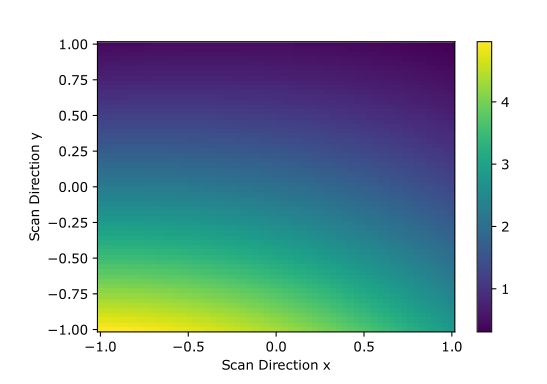
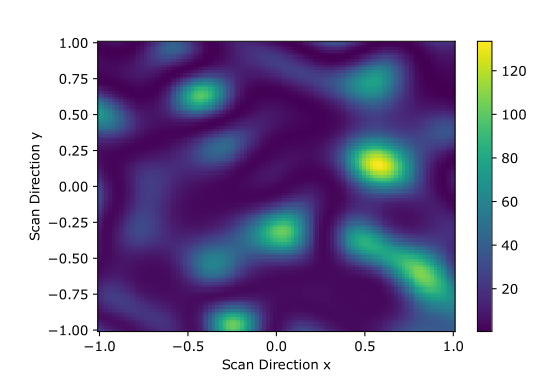
Merging dev (#4)
* namespace for tests imports

* new example plot

* minor fixes & adding Authors

diff --git a/tests/orqviz/scans_test.py b/tests/orqviz/scans_test.py
@@ -1,21 +1,21 @@
 import pytest
 import numpy as np
-from zquantum.visualization.scans import (
+from orqviz.scans import (
     perform_1D_scan,
     perform_1D_interpolation,
     perform_2D_scan,
     perform_2D_interpolation,
     get_2D_slice_around_point,
 )
-from zquantum.visualization.scans.plots import (
+from orqviz.scans.plots import (
     plot_1D_scan_result,
     plot_2D_scan_result,
     plot_2D_interpolation_result,
 )
-from zquantum.visualization.scans.data_structures import Scan1DResult, Scan2DResult
+from orqviz.scans.data_structures import Scan1DResult, Scan2DResult
 import matplotlib.pyplot as plt
-from zquantum.visualization.scans import perform_1D_scan
-from zquantum.visualization.utils import save_viz_object, load_viz_object
+from orqviz.scans import perform_1D_scan
+from orqviz.utils import save_viz_object, load_viz_object
 
 
 def SUM_OF_SINS(params):
@@ -23,8 +23,8 @@ def SUM_OF_SINS(params):
 
 
 def test_1D_scan():
-    origin = np.array([0, 0])
-    direction_x = np.array([1, 0])
+    origin = np.array([0.0, 0.0])
+    direction_x = np.array([1.0, 0.0])
     end_points_x = (-np.pi, np.pi)
     n_steps_x = 100
 
@@ -59,8 +59,8 @@ def test_1D_scan():
 
 
 def test_1D_interpolation():
-    point1 = np.array([0, 0])
-    point2 = np.array([0, 0])
+    point1 = np.array([1, 0])
+    point2 = np.array([0, 1])
     direction_x = point2 - point1
     end_points_x = (0, 1)
     n_steps_x = 23
@@ -78,7 +78,7 @@ def test_1D_interpolation():
     for scan_results in [scan_1d, loaded_scan1d]:
         assert isinstance(scan_results, Scan1DResult)
         assert len(scan_results.values) == n_steps_x
-        np.testing.assert_equal(np.dot(scan_results.direction, direction_x), 0)
+        np.testing.assert_equal(scan_results.direction, direction_x)
         assert scan_results.params_list.shape == (n_steps_x, 2)
 
         np.testing.assert_equal(
@@ -177,7 +177,7 @@ def test_get_2D_slice_around_point_in_5D_space():
 
 
 def test_interpolation_2D_in_2D_space():
-    point_1 = np.array([0, 0])
+    point_1 = np.array([1, 0])
     point_2 = np.array([0, 2])
     end_points_x = (-0.5, 1.5)
     end_points_y = (-0.5, 0.5)

diff --git a/tests/orqviz/utils_test.py b/tests/orqviz/utils_test.py
@@ -1,11 +1,11 @@
 import pytest
 import numpy as np
-from zquantum.visualization.scans import perform_2D_scan, perform_1D_scan
-from zquantum.visualization.hessians import get_Hessian
-from zquantum.visualization.utils import save_viz_object, load_viz_object, OrqVizObject
-from zquantum.visualization.scans.data_structures import Scan1DResult, Scan2DResult
-from zquantum.visualization.hessians.data_structures import HessianEigenobject
-from zquantum.visualization.elastic_band.data_structures import Chain
+from orqviz.scans import perform_2D_scan, perform_1D_scan
+from orqviz.hessians import get_Hessian
+from orqviz.utils import save_viz_object, load_viz_object, OrqVizObject
+from orqviz.scans.data_structures import Scan1DResult, Scan2DResult
+from orqviz.hessians.data_structures import HessianEigenobject
+from orqviz.elastic_band.data_structures import Chain
 
 
 def SUM_OF_SINS(params):

diff --git a/tests/orqviz/hessians_test.py b/tests/orqviz/hessians_test.py
@@ -1,14 +1,14 @@
 import pytest
 import numpy as np
 import matplotlib.pyplot as plt
-from zquantum.visualization.hessians import (
+from orqviz.hessians import (
     get_Hessian,
     get_Hessian_SPSA_approx,
     HessianEigenobject,
     perform_1D_hessian_eigenvector_scan,
     plot_1D_hessian_eigenvector_scan_result,
 )
-from zquantum.visualization.utils import save_viz_object, load_viz_object
+from orqviz.utils import save_viz_object, load_viz_object
 
 
 def COST_FUNCTION(params):

diff --git a/tests/orqviz/elastic_band_test.py b/tests/orqviz/elastic_band_test.py
@@ -1,13 +1,13 @@
 import pytest
 import numpy as np
 import matplotlib.pyplot as plt
-from zquantum.visualization.elastic_band import (
+from orqviz.elastic_band import (
     Chain,
     run_NEB,
     run_AutoNEB,
     plot_all_chains_losses,
 )
-from zquantum.visualization.utils import save_viz_object, load_viz_object
+from orqviz.utils import save_viz_object, load_viz_object
 
 
 def SUM_OF_SINS(params):

diff --git a/tests/orqviz/pca_test.py b/tests/orqviz/pca_test.py
@@ -1,7 +1,7 @@
 import pytest
 import numpy as np
-from zquantum.visualization.scans.data_structures import Scan2DResult
-from zquantum.visualization.pca import (
+from orqviz.scans.data_structures import Scan2DResult
+from orqviz.pca import (
     perform_2D_pca_scan,
     get_pca,
     PCAobject,

diff --git a/README.md b/README.md
@@ -6,6 +6,7 @@ A Python package for easily **visualizing the loss landscape** of Variational Qu
 ## Getting started
 
 In our repository you will find an [example Jupter notebook](https://github.com/zapatacomputing/orqviz/blob/main/examples/example_notebook.ipynb) providing a thorough demonstration of the tools available with the package. 
+
 In [this Github](https://github.com/zapatacomputing/visualization-tutorials) repository we have four Jupyter notebooks with tutorials for how to get started with any quantum circuit simulation framework you might use. You will find examples with `qiskit`, `cirq`, `pennylane` and Zapata's `Orquestra` library. The tutorials are not exhaustive, but they do provide a full story that you can follow along.
 
 We have recently published a paper on arXiv where we review the tools available with `orqviz`. TODO: Link to arXiv.
@@ -31,7 +32,7 @@ import numpy as np
 np.random.seed(42)
 
 def loss_function(pars):
-    return np.sum(np.cos(pars))**2
+    return np.sum(np.cos(pars))**2 + np.sum(np.sin(30*pars))**2
 
 n_params = 42
 params = np.random.uniform(-np.pi, np.pi, size=n_params)
@@ -40,11 +41,24 @@ dir2 = orqviz.geometric.get_random_orthonormal_vector(dir1)
 
 scan2D_result = orqviz.scans.perform_2D_scan(params, loss_function, 
                                 direction_x=dir1, direction_y=dir2,
-                                n_steps_x=60)
+                                n_steps_x=100)
 orqviz.scans.plot_2D_scan_result(scan2D_result)
 ```
-This code results in the following plot:\
+This code results in the following plot:
+
+
 ![Image](docs/example_plot.png)
+
+## Authors
+The leading developer of this package is Manuel Rudolph at Zapata Computing.\
+For questions related to the visualization techniques, contact Manuel via Manuel.Rudolph@zapatacomputing.com
+
+The leading software developer of this package is Michal Stechly at Zapata Computing.\
+For questions related to technicalities of the package, contact Michal via Michal.Stechly@zapatacomputing.com
+
+For general questions, problems, bug fixes, etc. please open a [GitHub issue](https://github.com/zapatacomputing/orqviz/issues) in the `orqviz` repository.
+
+Thank you to Sukin Sim and Luis Serrano from Zapata Computing for their contribution to the tutorials.
 
 ## Further
 TODO:
